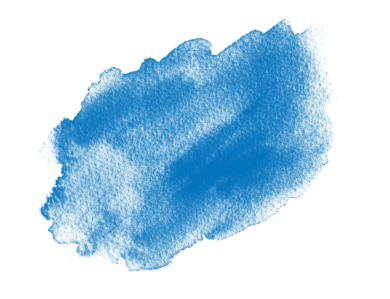
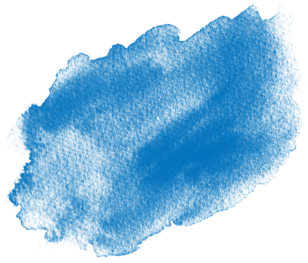
move watercolor width and height to css. #59

diff --git a/services/ucd-lib-client/client/public/elements/components/graphics/dams-watercolor.js b/services/ucd-lib-client/client/public/elements/components/graphics/dams-watercolor.js
@@ -9,8 +9,6 @@ import render from "./dams-watercolor.tpl.js";
  * @prop {String} srcExt - The watercolor image extension type
  * @prop {String} color - The watercolor image. See CSS custom variables for accepted values
  * @prop {Number} rotate - Degree to rotate watercolor
- * @prop {String} width - Watercolor width
- * @prop {String} height - Watercolor height
  * @prop {String} element - Type of element to use: img or div
  */
 export default class DamsWatercolor extends LitElement {
@@ -22,8 +20,6 @@ export default class DamsWatercolor extends LitElement {
       srcExt: {type: String, attribute: 'src-ext'},
       color: {type: String},
       rotate: {type: Number},
-      width: {type: String},
-      height: {type: String},
       element: {type: String}
     };
   }
@@ -99,8 +95,6 @@ export default class DamsWatercolor extends LitElement {
       "background-image": `url(${this.getImgSrc()})`
     };
     if (this.rotate) styles.transform = `rotate(${this.rotate}deg)`;
-    //if (this.width) styles.width = this.width;
-    //if (this.height) styles.height = this.height;
     return styles;
   }
 

diff --git a/services/ucd-lib-client/client/public/elements/pages/home/app-home.tpl.js b/services/ucd-lib-client/client/public/elements/pages/home/app-home.tpl.js
@@ -139,11 +139,6 @@ return html`
     height: 8rem;
     margin-left:0px;
   }
-  .featured{
-    margin: 0;
-    text-align: center;
-    background-color: var(--color-aggie-blue-20);
-  }
   .about{
     text-align: center;
     background-color: var(--color-aggie-blue-40);
@@ -288,6 +283,14 @@ return html`
     margin-left: 0;
     margin-right: 0;
   }
+  .featured {
+    background-color: var(--color-aggie-blue-20);
+  }
+  .featured h2 {
+    margin-bottom: 0;
+    text-align: center;
+    margin-top: 0;
+  }
   @media (min-width: 767px) {
     .hero-top {
       margin-bottom: 60px;
@@ -423,7 +426,13 @@ return html`
       )}
     
   </div>
+</section>
 
+<section class="featured site-frame">
+  <h2>Featured Collections</h2>
+  <dams-watercolor-overlay 
+      icon="star">
+  </dams-watercolor-overlay>
 </section>
 
 <!--

diff --git a/services/ucd-lib-client/client/public/elements/components/graphics/dams-watercolor.tpl.js b/services/ucd-lib-client/client/public/elements/components/graphics/dams-watercolor.tpl.js
@@ -23,8 +23,8 @@ ${this.element === 'img' ? html`
   <img 
     src="${this.getImgSrc()}" 
     srcset="${this.getImgSrcSet()}"
-    height="${this.height}"
-    width="${this.width}"
+    height="100%"
+    width="100%"
     alt="" 
     style="${styleMap(this.getImgStyles())}">
 ` : html`

diff --git a/services/ucd-lib-client/client/public/elements/components/graphics/dams-watercolor-overlay.tpl.js b/services/ucd-lib-client/client/public/elements/components/graphics/dams-watercolor-overlay.tpl.js
@@ -20,6 +20,10 @@ return html`
   iron-icon {
     position: absolute;
   }
+  dams-watercolor {
+    height: 100%;
+    width: 100%;
+  }
 </style>
 <dams-watercolor
   rotate="${this.wcRotation}"
